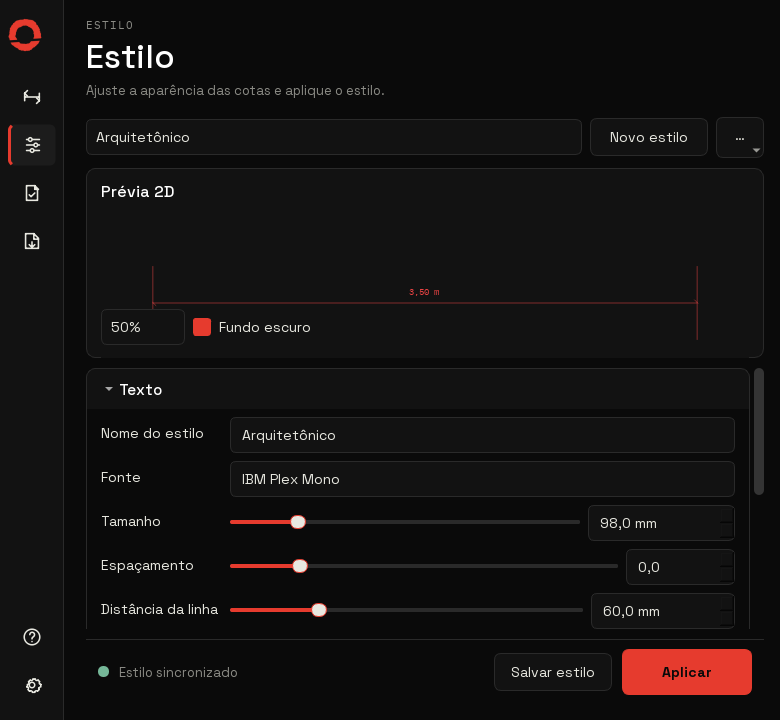
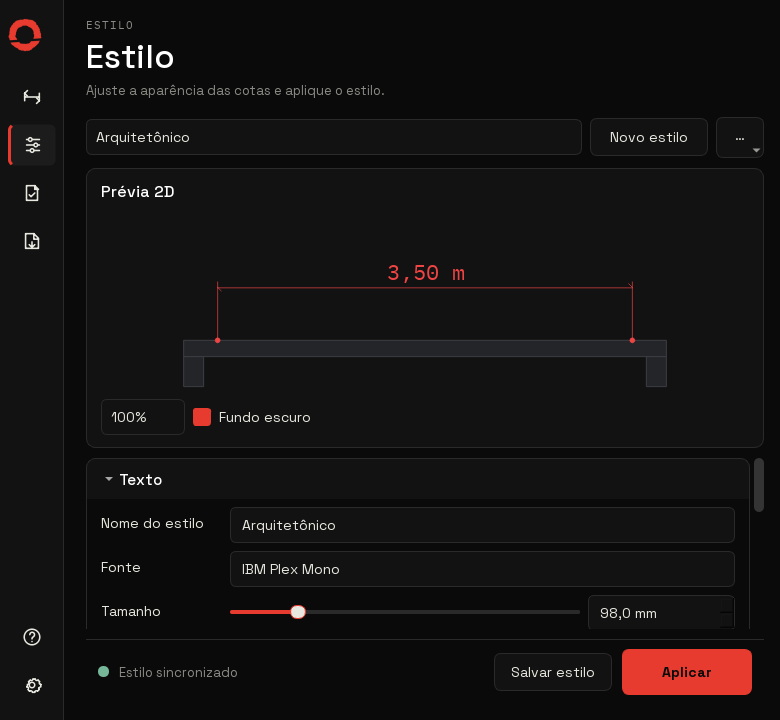
feat(e19): restore architectural style preview

diff --git a/Contents/python/ameno_ui/styles_page.py b/Contents/python/ameno_ui/styles_page.py
@@ -48,6 +48,12 @@ class PreviewWidget(QtWidgets.QWidget):
         bg = QtGui.QColor("#121212" if self._dark else "#E8E8E0")
         painter.fillRect(self.rect(), bg)
         geometry = build_preview_geometry(self._style, self.rect(), self._zoom)
+        wall_fill = QtGui.QColor("#242529" if self._dark else "#D9D9D3")
+        wall_stroke = QtGui.QColor("#3B3D43" if self._dark else "#B8B8B0")
+        painter.setPen(QtGui.QPen(wall_stroke, 1.0))
+        painter.setBrush(wall_fill)
+        for wall in geometry.wall_rects:
+            painter.drawRect(QtCore.QRectF(wall.x, wall.y, wall.width, wall.height))
         line_color = color_text_to_qcolor(geometry.line_color)
         text_color = color_text_to_qcolor(geometry.text.color)
         if not line_color.isValid():
@@ -57,6 +63,11 @@ class PreviewWidget(QtWidgets.QWidget):
         pen = QtGui.QPen(line_color)
         pen.setWidthF(geometry.line_thickness_px)
         painter.setPen(pen)
+        painter.setBrush(line_color)
+        reference_radius = max(2.5, min(4.5, geometry.line_thickness_px * 1.5))
+        for point in geometry.wall_reference_points:
+            painter.drawEllipse(QtCore.QPointF(*point), reference_radius, reference_radius)
+        painter.setBrush(QtCore.Qt.BrushStyle.NoBrush)
         for segment in geometry.all_segments:
             painter.drawLine(QtCore.QPointF(*segment.start), QtCore.QPointF(*segment.end))
         for terminal in geometry.terminals:
@@ -187,6 +198,7 @@ class StylesPage(QtWidgets.QWidget):
         self.zoom = QtWidgets.QComboBox()
         for label, value in (("50%", 0.5), ("100%", 1.0), ("200%", 2.0)):
             self.zoom.addItem(label, value)
+        self.zoom.setCurrentIndex(1)
         self.dark = QtWidgets.QCheckBox("Fundo escuro")
         self.dark.setChecked(True)
         self.zoom.currentIndexChanged.connect(self.update_preview)
@@ -328,20 +340,25 @@ class StylesPage(QtWidgets.QWidget):
         # font metrics from Max while keeping every numeric editor visible.
         compact = self.width() < 780
         mode = "compact" if compact else "wide"
-        if mode == self._workspace_mode and self.editor.isVisible():
-            return
+        mode_changed = mode != self._workspace_mode or not self.editor.isVisible()
         self._workspace_mode = mode
-        self.workspace_layout.setDirection(
-            QtWidgets.QBoxLayout.Direction.TopToBottom
-            if compact
-            else QtWidgets.QBoxLayout.Direction.LeftToRight
-        )
+        if mode_changed:
+            self.workspace_layout.setDirection(
+                QtWidgets.QBoxLayout.Direction.TopToBottom
+                if compact
+                else QtWidgets.QBoxLayout.Direction.LeftToRight
+            )
         if compact:
             self.controls_scroll.setMinimumWidth(0)
             self.preview_box.setMinimumWidth(0)
-            self.preview_box.setMinimumHeight(170)
-            self.preview_box.setMaximumHeight(190)
-            self.workspace_layout.insertWidget(0, self.preview_box)
+            # A 720 px-tall shell gets a genuinely readable architectural
+            # preview. Shorter windows retain enough room for the dedicated
+            # controls scroll instead of pushing the fixed footer away.
+            preview_height = max(190, min(285, round(self.height() * 0.5625 - 125)))
+            self.preview_box.setMinimumHeight(preview_height)
+            self.preview_box.setMaximumHeight(preview_height)
+            if mode_changed:
+                self.workspace_layout.insertWidget(0, self.preview_box)
             self.workspace_layout.setStretch(0, 0)
             self.workspace_layout.setStretch(1, 1)
         else:
@@ -349,8 +366,9 @@ class StylesPage(QtWidgets.QWidget):
             self.preview_box.setMinimumWidth(250)
             self.preview_box.setMinimumHeight(0)
             self.preview_box.setMaximumHeight(16777215)
-            self.workspace_layout.insertWidget(0, self.controls_scroll, 7)
-            self.workspace_layout.insertWidget(1, self.preview_box, 4)
+            if mode_changed:
+                self.workspace_layout.insertWidget(0, self.controls_scroll, 7)
+                self.workspace_layout.insertWidget(1, self.preview_box, 4)
             self.workspace_layout.setStretch(0, 7)
             self.workspace_layout.setStretch(1, 4)
 

diff --git a/Contents/python/ameno_ui/dimension_preview.py b/Contents/python/ameno_ui/dimension_preview.py
@@ -19,6 +19,14 @@ class PreviewSegment:
 
 
 @dataclass(frozen=True)
+class PreviewRect:
+    x: float
+    y: float
+    width: float
+    height: float
+
+
+@dataclass(frozen=True)
 class PreviewTerminal:
     kind: str
     anchor: Point
@@ -45,6 +53,8 @@ class PreviewGeometry:
     height: float
     line_color: str
     line_thickness_px: float
+    wall_rects: tuple[PreviewRect, ...]
+    wall_reference_points: tuple[Point, ...]
     extension_segments: tuple[PreviewSegment, ...]
     dimension_segment: PreviewSegment
     terminals: tuple[PreviewTerminal, ...]
@@ -120,10 +130,38 @@ def build_preview_geometry(
     external_zoom = max(0.25, min(4.0, float(zoom or 1.0)))
     style_scale = max(0.1, min(10.0, float(snapshot.preview_scale or 1.0)))
     effective_scale = external_zoom * style_scale
-    margin = max(18.0, min(64.0, width * 0.08))
-    left_anchor = margin
-    right_anchor = max(left_anchor + 60.0, width - margin)
-    center_y = height * 0.62
+    margin = max(24.0, min(72.0, width * 0.1))
+    available_span = max(60.0, width - margin * 2.0)
+    # Zoom changes the whole sample, including its measured span. Keep 50%
+    # large enough to remain explanatory and cap 200% inside the canvas.
+    span_ratio = max(0.58, min(1.0, 0.8 * effective_scale))
+    sample_span = available_span * span_ratio
+    left_anchor = width * 0.5 - sample_span * 0.5
+    right_anchor = width * 0.5 + sample_span * 0.5
+    # The sample is deliberately architectural: a dimension sits above a
+    # small wall fragment instead of floating without context. This mirrors
+    # the old WPF preview while remaining pure, deterministic geometry.
+    center_y = max(46.0, min(height * 0.43, height - 76.0))
+    wall_top = max(center_y + 42.0, min(height * 0.72, height - 34.0))
+    wall_thickness = max(12.0, min(22.0, height * 0.09))
+    wall_padding = max(18.0, min(34.0, width * 0.055))
+    return_width = max(12.0, min(20.0, width * 0.035))
+    return_height = max(14.0, min(30.0, height - wall_top - wall_thickness))
+    wall_rects = (
+        PreviewRect(
+            left_anchor - wall_padding,
+            wall_top,
+            right_anchor - left_anchor + wall_padding * 2.0,
+            wall_thickness,
+        ),
+        PreviewRect(left_anchor - wall_padding, wall_top + wall_thickness, return_width, return_height),
+        PreviewRect(
+            right_anchor + wall_padding - return_width,
+            wall_top + wall_thickness,
+            return_width,
+            return_height,
+        ),
+    )
 
     # Keep the preview legible while still exposing the physical style values.
     feature_scale = max(0.08, min(0.8, min(width / 900.0, height / 300.0))) * effective_scale
@@ -132,12 +170,10 @@ def build_preview_geometry(
     terminal_size = max(4.0, float(snapshot.terminal_size) * 0.08 * feature_scale)
     line_thickness = max(0.5, float(snapshot.line_thickness) * 0.75 * feature_scale)
 
-    left = left_anchor + extension_gap
-    right = right_anchor - extension_gap
-    if right <= left + 20:
-        left, right = left_anchor, right_anchor
-    extension_top = max(8.0, center_y - (34.0 + overhang))
-    extension_bottom = min(height - 8.0, center_y + (34.0 + overhang))
+    left = left_anchor
+    right = right_anchor
+    extension_top = max(8.0, center_y - overhang)
+    extension_bottom = max(center_y + 2.0, wall_top - extension_gap)
     extension_segments = (
         PreviewSegment((left, extension_top), (left, extension_bottom)),
         PreviewSegment((right, extension_top), (right, extension_bottom)),
@@ -191,6 +227,8 @@ def build_preview_geometry(
         height=height,
         line_color=_color_text(snapshot.annotation_color),
         line_thickness_px=line_thickness,
+        wall_rects=wall_rects,
+        wall_reference_points=((left_anchor, wall_top), (right_anchor, wall_top)),
         extension_segments=extension_segments,
         dimension_segment=dimension_segment,
         terminals=terminals,

diff --git a/tests/python/test_e18_preview_geometry.py b/tests/python/test_e18_preview_geometry.py
@@ -26,8 +26,12 @@ def test_geometry_is_deterministic_and_does_not_require_qt_or_scene() -> None:
     assert first == second
     assert first.width == 620.0
     assert first.height == 240.0
+    assert len(first.wall_rects) == 3
+    assert len(first.wall_reference_points) == 2
     assert len(first.extension_segments) == 2
     assert first.dimension_segment.start[0] < first.dimension_segment.end[0]
+    assert first.dimension_segment.start[1] < first.wall_rects[0].y
+    assert first.extension_segments[0].end[1] <= first.wall_rects[0].y
 
 
 def test_line_and_text_parameters_have_visible_geometry_effects() -> None:

diff --git a/tests/python/test_e19_style_workspace.py b/tests/python/test_e19_style_workspace.py
@@ -136,3 +136,15 @@ def test_style_compact_mode_places_fixed_preview_above_scrolling_controls() -> N
     assert view.verticalScrollBar().maximum() == 0
     window.close()
     app.processEvents()
+
+
+def test_style_default_height_gives_the_preview_room_to_explain_the_dimension() -> None:
+    app = _app()
+    window = _window(780, 720)
+    page = window.shell.pages["styles"]
+    assert page._workspace_mode == "compact"
+    assert page.preview_box.height() >= 240
+    assert page.preview.height() >= 165
+    assert page.controls_scroll.viewport().height() >= 100
+    window.close()
+    app.processEvents()

diff --git a/work/e19-visual/README.md b/work/e19-visual/README.md
@@ -18,12 +18,14 @@ do host real.
 ## Página Estilo
 
 - `02-estilo-980x720.png`: duas colunas, preview e rodapé fixos.
[2 lines of base64/hex data omitted]
 - `03-estilo-780x560.png`: preview acima, controles em scroll próprio e rodapé
   fixo.
[2 lines of base64/hex data omitted]
 - `04-estilo-default-780x720.png`: abertura vertical padrão, preview fixo acima
-  e controles em scroll independente.
[1 lines of base64/hex data omitted]
+  e controles em scroll independente. A amostra abre em 100% e recupera o
+  contexto arquitetônico do WPF: parede, retornos, pontos medidos, extensões,
+  linha, terminais e texto.
[1 lines of base64/hex data omitted]
 - Referência: `work/e19-reference/02-estilo-target.png`.
 - Testes: `tests/python/test_e19_style_workspace.py`.
